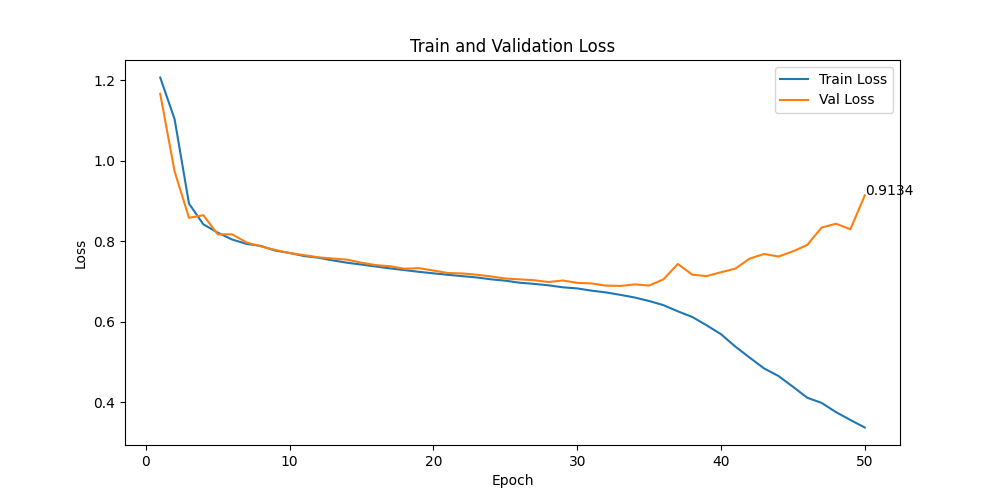
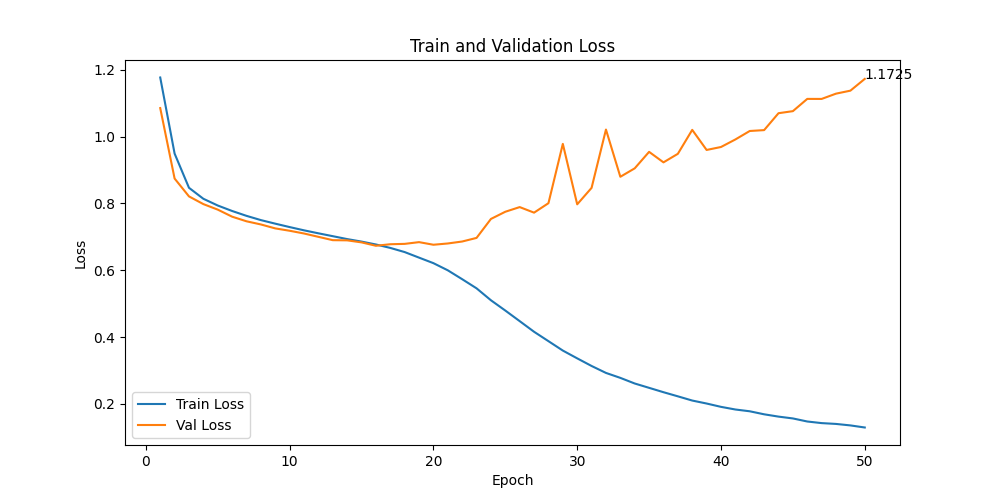
chnges to unet for flip/overfitting

diff --git a/unet_train_noise.py b/unet_train_noise.py
@@ -119,7 +119,7 @@ test_size = len(dataset) - train_size - val_size
 train_set, val_set, test_set = torch.utils.data.random_split(dataset, [train_size, val_size, test_size])
 
 # batch size
-batch_size = 4
+batch_size = 2
 
 # Build data loader
 train_loader = DataLoader(train_set, batch_size=batch_size, shuffle=True) # shuffle training set
@@ -130,7 +130,7 @@ test_loader = DataLoader(test_set, batch_size=batch_size, shuffle=False) # no ne
 loss_unet = nn.CrossEntropyLoss()
 
 # optimizer: ADAM
-optimizer_unet = optim.Adam(net.parameters(), lr=1e-5)
+optimizer_unet = optim.Adam(net.parameters(), lr=1e-5, weight_decay=0.001)
 #scheduler = optim.lr_scheduler.ReduceLROnPlateau(optimizer_unet, 'min', patience=2)
 
 # number of epochs to train the model
